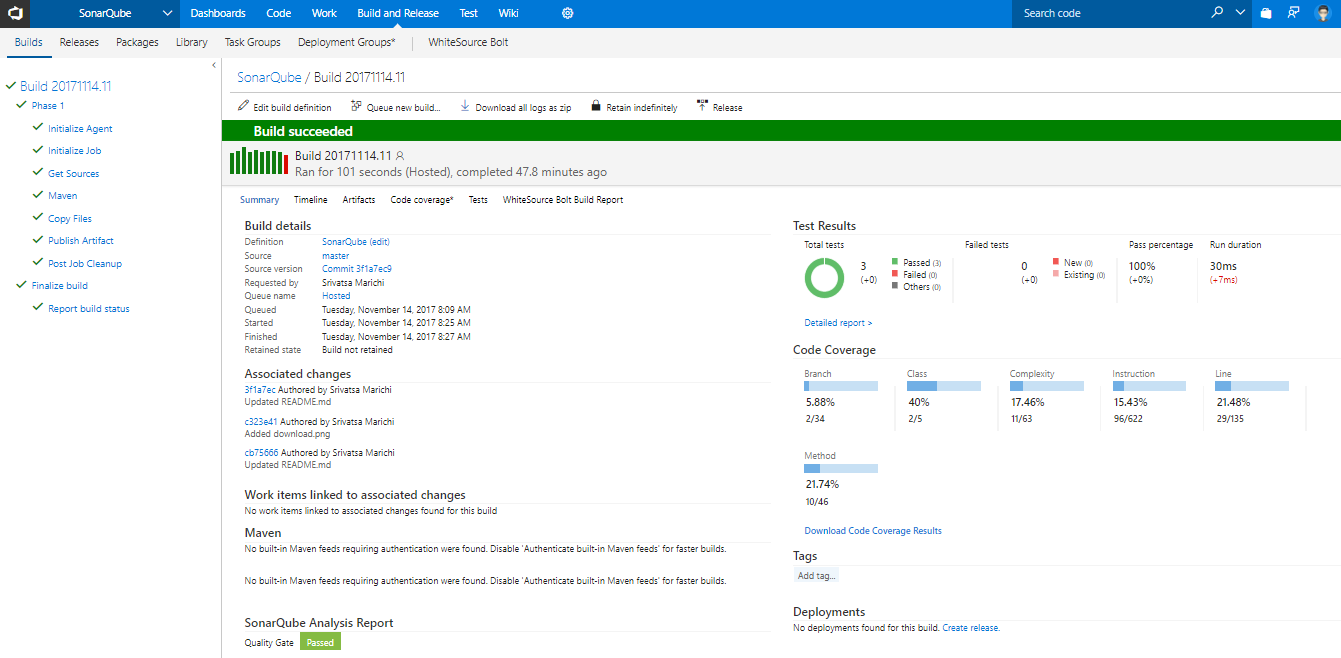
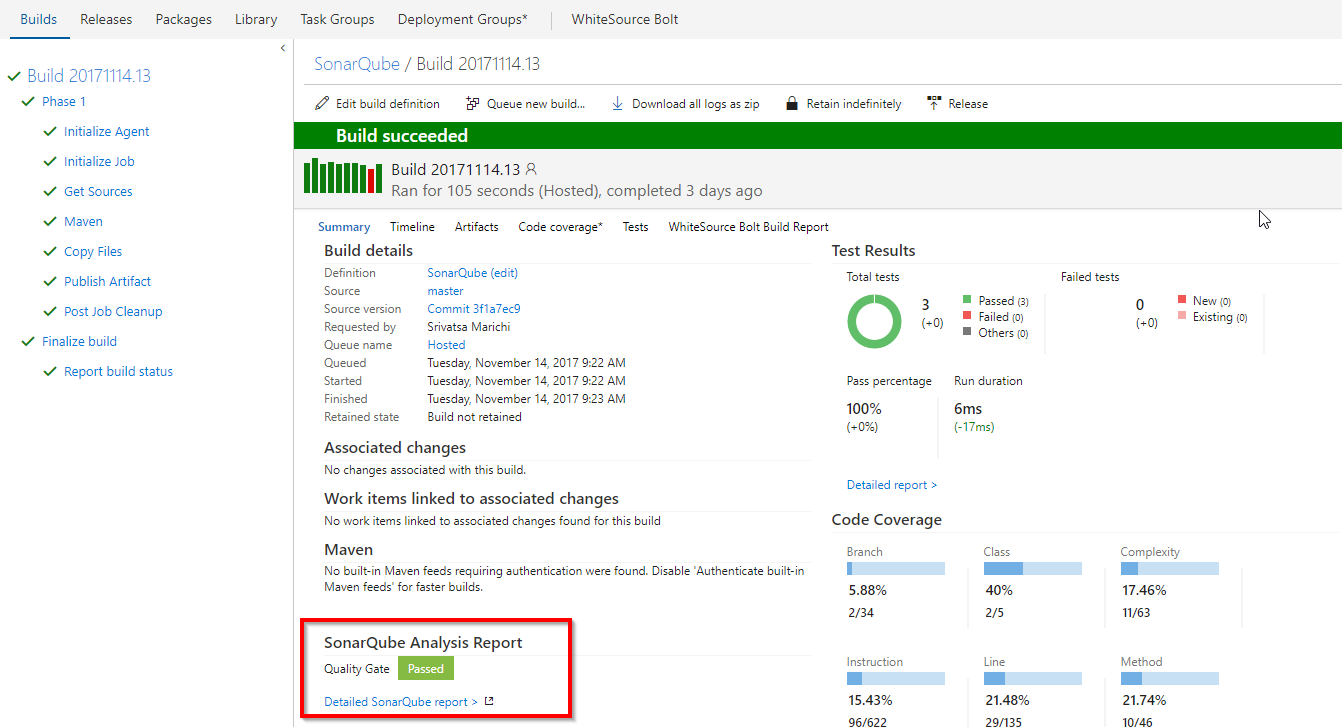
updated content

diff --git a/sonarqube/readme.md b/sonarqube/readme.md
@@ -1,26 +1,23 @@
-## Managing Technical Debt with Visual Studio Team Services and SonarQube 
+## Managing Technical Debt using VSTS and SonarQube 
 
 ## Overview
 
-In this lab, you will be introduced to Technical debt, how to configure your Team Build Definitions to use SonarQube, how to understand the analysis results.
+In this lab, you will be introduced to Technical Debt by configuring team build definitions to use SonarQube and  analyze the results.
 
 <a href="https://www.sonarqube.org/">SonarQube</a> is an open source platform for continuous inspection of code quality to perform automatic reviews with static analysis of code to
 
-- Detect bugs
-- Code smells
-- Security vulnerabilities
-- Centralize Quality
-
-SonarQube integrates with the entire DevOps toolchain including build systems, CI engines, promotion pipelines, using webhooks and its comprehensive RestAPI.
-
+- <a href="http://bit.ly/2AN9LIE">Detect Bugs
+- Code Smells
+- Security Vulnerabilities
+- Centralize Quality</a>
 
 ## Pre-requisites
 
-1. **Microsoft Azure Account:** You will need a valid and active azure account for the labs
+1. **Microsoft Azure Account:** You need a valid and active azure account for the labs
 
 2. You need a **Visual Studio Team Services Account** and <a href="http://bit.ly/2gBL4r4">Personal Access Token</a>
 
-3. You will need a **SonarQube** server
+3. You need a **SonarQube** server
 
 ## Setting up the project
 
@@ -34,7 +31,7 @@ SonarQube integrates with the entire DevOps toolchain including build systems, C
 
 ## Setting up the Environment
 
-1. Click on **Deploy To Azure** to spin up a SonarQube Server on Azure VM.
+1. Click **Deploy To Azure** to provision SonarQube Server on Azure VM.
 
    <a href="https://portal.azure.com/#create/Microsoft.Template/uri/https%3A%2F%2Fraw.githubusercontent.com%2Fhsachinraj%2FAzurelabs%2Fmaster%2Fsonarqube%2Ftemplates%2Fazuredeploy.json"><img src="http://azuredeploy.net/deploybutton.png"></a>
 
@@ -49,67 +46,87 @@ SonarQube integrates with the entire DevOps toolchain including build systems, C
       </tr>
    </thead>
    <tr>
-      <td>sqVM_AppName</td>
-      <td>Name of the VM that SonarQube will be installed upon</td>
+      <td>SQ_VM_Name</td>
+      <td>name of the VM where SonarQube will be installed</td>
       
    </tr>
    <tr>
-      <td>sq_PublicIP_DnsPrefix</td>
-      <td>The prefix of the public URL for the VM on the Internet (Max 63 chars, lower-case). It should match with the following regular expression: ^[a-z][a-z0-9-]{1,61}[a-z0-9]$ or it will raise an error. This will be used to build the fully qualified URL for the SonarQube site in the form of http://[sq_PublicIP_DnsPrefix].[AzureRegion].cloudapp.azure.com Ex: A value of "my-sonarqube" will result in a URL of http://my-sonarqube.eastus.cloudapp.azure.com if the ARM template is deployed into a storage account hosted in the EASTUS Azure region</td>
+      <td>SQ_DNS_NAME</td>
+      <td>unique dns name to be provided with the following pattern:- <b>^[a-z][a-z0-9-]{1,61}[a-z0-9]$</b> or it will throw an error</td>
       
    </tr>
    <tr>
-      <td>sqVM_AppAdmin_UserName</td>
-      <td>Local Admin account name for the SonarQube VM</td>
+      <td>SQ_VM_UserName</td>
+      <td>local admin account for the SonarQube VM</td>
       
    </tr>
    <tr>
-      <td>sqVM_AppAdmin_Password</td>
-      <td>Password for the SonarQube VM Local Admin account</td>
+      <td>SQ_VM_UserPassword</td>
+      <td>password for the SonarQube VM</td>
       
    </tr>
    <tr>
-      <td>sqDB_Admin_UserName</td>
-      <td>Admin account name for Azure SQL Server</td>
+      <td>SQ_DBAdmin_UserName</td>
+      <td>admin account for Azure SQL Server</td>
       
    </tr>
    <tr>
-      <td>sqDB_Admin_Password</td>
-      <td>Password for Azure SQL Server Admin account</td>
+      <td>SQ_DBAdmin_Password</td>
+      <td>password for Azure SQL Server</td>
       
    </tr>
    
    </table>
 
-2. Once the deployment is successful, you should see all the resources in the resource group in Azure Portal.
+2. Once the deployment is successful, you will see all the resources in the resource group in Azure Portal.
 
    <img src="images/azure_resources.png">
 
-3. Access the **SonarQube** portal by providing its public address in the browser. The address format is **http://[sq_PublicIP_DnsPrefix].[AzureRegion].cloudapp.azure.com:9000**.
+3. Access the **SonarQube** portal by browsing the public address. Copy the DNS name from the VM in Azure Portal as shown and append :9000 at the end. The final URL will be http://YOUR_DNS_NAME:**9000**
 
-   >You can login to the SonarQube Portal using the following credentials- **Username= admin, Password= admin**
+   <img src="images/dns_name.png">
+
+4. Login to the SonarQube Portal using the following credentials-    
+   >**Username= admin, Password= admin**
 
    <img src="images/sonarqube_portal.png">
 
 
-## Configure SonarQube Server
+## Exercise 1a: Configure SonarQube Server
 
-1. Login to the portal with the above mentioned credentials.
+To start code analysis, we need a project to be created in the sonarqube. 
 
-2. Click on **Administration** and go to **Projects-->Management**
+1. Login to the sonarqube portal.
+
+2. Click **Administration**, go to **Projects-->Management**.
 
    <img src="images/sonar_admin.png">
 
-3. Create Project as shown with the following details.
+3. Create project with the details as shown.
 
    <img src="images/project_creation.png">
 
+## Exercise 1b: Update Endpoint
 
-## Configuring CI pipeline for SonarQube
+During the project provisioning, a dummy endpoint would be created. We will update the endpoint with sonarqube details.
 
-1. We have a **Java** Application provisioned by the demo generator system. We will run the analysis for the same.
+1. In VSTS, go to **Services** by clicking the gear icon, and click **Update service configuration** link .
 
-2. Open the build definition **SonarQube** to explore the tasks. The tasks that is used in the build definition are listed in the table below.
+   <img src="images/update_endpoint.png">
+
+2. Update endpoint with the below details and click **OK**-
+
+   - **Server URL**: http://YOUR_DNS_NAME:9000
+   - **User name**: admin
+   - **Password**:  admin
+
+   <img src="images/update_2.png">
+
+## Exercise 2: Configure and Trigger build
+
+Now that SonarQube server is running, we will trigger the build to analyse the java code provisioned by the demo generator system.
+
+1. Go to **Builds** under **Build and Release** tab, Edit the build definition **SonarQube**. The tasks used in the build definition are listed.
 
    <table width="100%">
    <thead>
@@ -120,46 +137,41 @@ SonarQube integrates with the entire DevOps toolchain including build systems, C
    </thead>
    <tr>
       <td><a href="http://bit.ly/2lvftfo"><b>Maven</b></a> <img src="images/maven.png"></td>
-      <td>Used to build Java code</td>
+      <td>builds and tests java code</td>
    </tr>
    <tr>
       <td><a href="http://bit.ly/2grMxTQ"><b>Copy Files</b></a> <img src="images/copy-files.png"> </td>
-      <td>Used to Copy files from source to destination folder using match patterns </td>
+      <td>copy files from source to destination folder using match patterns</td>
    </tr>
    <tr>
       <td><a href="http://bit.ly/2yBgXde"><b>Publish Build Artifacts</b></a> <img src="images/publish-build-artifacts.png"> </td>
-      <td> Used to share the build artifacts </td>
+      <td> publishes the build artifacts </td>
    </tr>
    </table>
 
-3. Configure the **Maven** task with **SonarQube Endpoint, Project Name, Project Key** as shown below.
-
-   **NOTE**: You need to update SonarQube Endpoint with your own endpoint. Click on **Manage** and then update with the following parameters-
-   
-   - **Connection Name**- SonarQube
-   - **Server URL**- Your SonarQube server URL i.e **http://YOUR_DNS_NAME.cloudapp.azure.com:9000**
-   - **User name**- admin
-   - **Password/Token Key**- admin
-   
-   After updating the endpoint, you need to update **SonarQube Project Name, Key**. Use the same name and key that you created from the previous section and update.
+3. Configure the **Maven** task with **Project Name, Project Key** as defined in **Exercise 1a-->step 3**.
    
    <br/>
 
    <img src="images/build_configure.png">
 
-3. Save and trigger the build to see the in progress status.
+3. Save and trigger the build. You will see the in progress status.
 
    <img src="images/build_in_progress.png">
 
-4. Once the build is completed, you can see the summary which shows **Test Results, Code Coverage, SonarQube Analysis Report** as shown below.
+4. You will see the build summary with **Test Results, Code Coverage** and link to **SonarQube Analysis Report** when completed.
 
    <img src="images/build_summary.png">
 
-5. Navigate to **SonarQube** Portal by providing its public address to see the analysis results by selecting the project.
+5. Go to **SonarQube** portal by clicking on the link in the build summary. You will see the dashboard.
 
    <img src="images/analysis_report.png">
 
-   <img src="images/analysis_2.png">
+## Exercise 3: Analyse SonarQube Reports
+
+We will analyse the report in sonarqube portal to see if there are critical bugs and fix them in our code.
+
+## TBA
 
 ## Summary
 
@@ -168,6 +180,4 @@ With **Visual Studio Team Services** and **SonarQube** you can easily schedule t
 ## Feedback
 
 
-
-   
 
